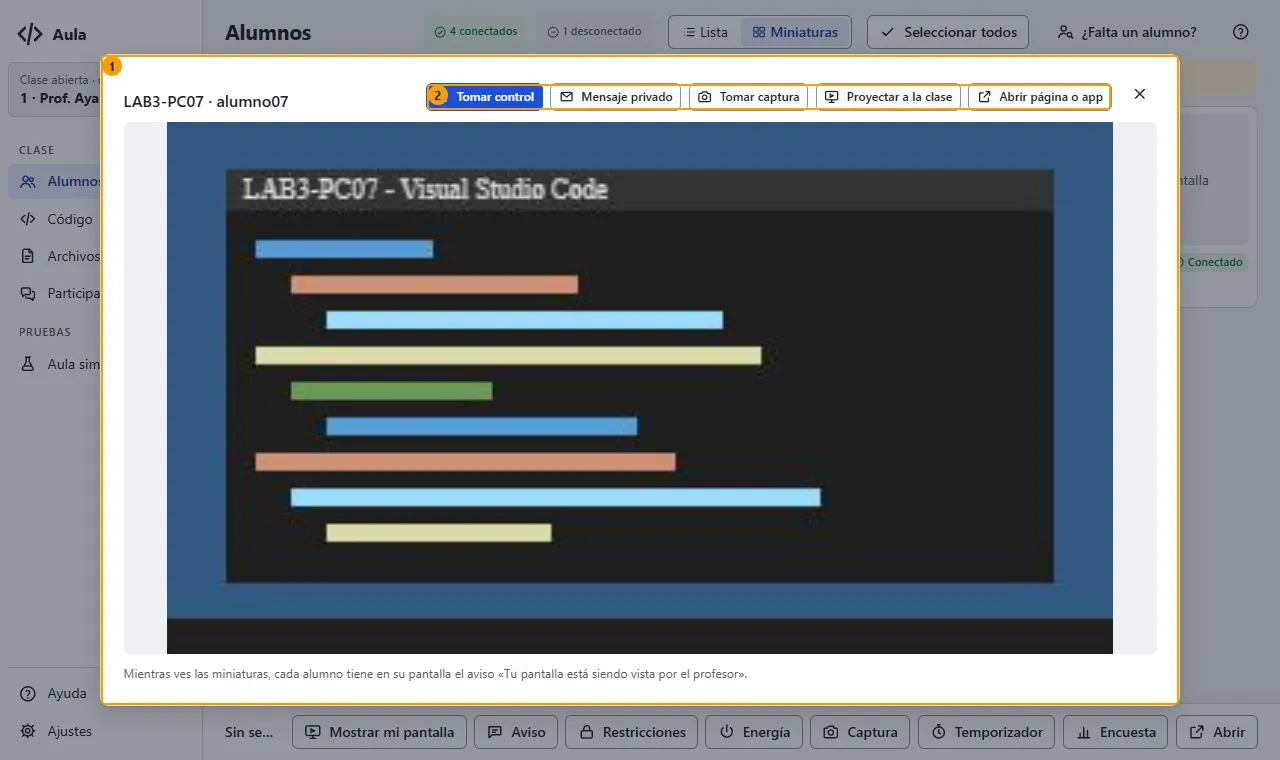
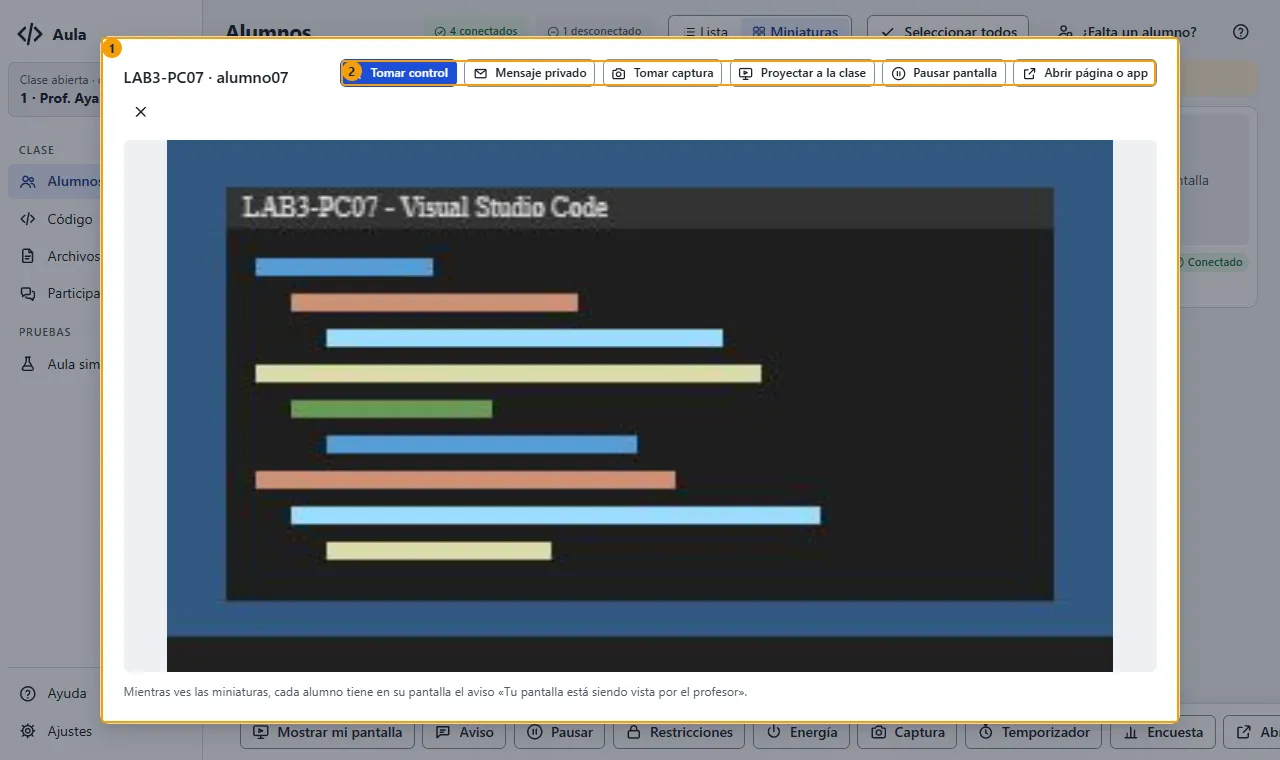
documentacion(ux): zona Panel Pausar pantallas, mapa e historial de la entrega

Changed region(s): [[0.0625, 0.2118, 1.0, 0.9987], [0.0625, 0.0303, 0.9375, 0.1816]]

diff --git a/docs/ux/MAPA.md b/docs/ux/MAPA.md
@@ -20,7 +20,7 @@ archivo y sus imágenes los genera `node scripts/ux/mapa.mjs` (no se editan a ma
 | 4 | **Selector Lista | Miniaturas** | Cambia entre la tabla y las miniaturas de pantalla. |
 | 5 | **Lista de alumnos** | Tabla con un alumno por fila. |
 | 6 | **Fila del alumno** | Un alumno: casilla, equipo, estado, insignias y el botón de su ficha. |
-| 7 | **Barra de acciones** | Abajo: lo que se aplica a la selección (aviso, transmitir, restricciones, captura, temporizador, encuesta, energía…). |
+| 7 | **Barra de acciones** | Abajo: lo que se aplica a la selección (aviso, transmitir, pausar, restricciones, captura, temporizador, encuesta, energía…). |
 
 ### Consola · Alumnos (miniaturas)
 
@@ -30,7 +30,7 @@ archivo y sus imágenes los genera `node scripts/ux/mapa.mjs` (no se editan a ma
 |---|---|---|
 | 1 | **Miniaturas** | Cuadrícula con la pantalla de cada alumno. |
 | 2 | **Tarjeta del alumno** | La miniatura de un alumno con su nombre; un clic abre la Pantalla grande. |
-| 3 | **Barra de acciones** | Abajo: lo que se aplica a la selección (aviso, transmitir, restricciones, captura, temporizador, encuesta, energía…). |
+| 3 | **Barra de acciones** | Abajo: lo que se aplica a la selección (aviso, transmitir, pausar, restricciones, captura, temporizador, encuesta, energía…). |
 
 ### Consola · Ficha del alumno
 
@@ -48,7 +48,7 @@ archivo y sus imágenes los genera `node scripts/ux/mapa.mjs` (no se editan a ma
 | # | Zona | Qué es |
 |---|---|---|
 | 1 | **Pantalla grande** | La pantalla de un alumno en grande; también la vista del control remoto y la de la proyección de un alumno. |
-| 2 | **Acciones sobre el alumno** | Tomar control, Mensaje privado, Tomar captura, Proyectar a la clase y Abrir página o app (ACCIONES_ALUMNO en main.js). |
+| 2 | **Acciones sobre el alumno** | Tomar control, Mensaje privado, Tomar captura, Proyectar a la clase, Pausar pantalla y Abrir página o app (ACCIONES_ALUMNO en main.js). |
 
 ### Consola · Franja global y un panel de la barra
 
@@ -56,9 +56,19 @@ archivo y sus imágenes los genera `node scripts/ux/mapa.mjs` (no se editan a ma
 
 | # | Zona | Qué es |
 |---|---|---|
-| 1 | **Franja global** | Lo que sigue activo durante la clase (transmitir, proyectar a un alumno, control, energía, temporizador, encuesta abierta, aula simulada), con su botón para detenerlo. |
+| 1 | **Franja global** | Lo que sigue activo durante la clase (transmitir, proyectar a un alumno, control, pantallas en pausa, energía, temporizador, encuesta abierta, aula simulada), con su botón para detenerlo. |
 | 2 | **Panel Aviso** | Mandar un aviso a la selección. |
-| 3 | **Barra de acciones** | Abajo: lo que se aplica a la selección (aviso, transmitir, restricciones, captura, temporizador, encuesta, energía…). |
+| 3 | **Barra de acciones** | Abajo: lo que se aplica a la selección (aviso, transmitir, pausar, restricciones, captura, temporizador, encuesta, energía…). |
+
+### Consola · Pausar pantallas
+
+![Consola · Pausar pantallas](mapa/consola-pausa.webp)
+
+| # | Zona | Qué es |
+|---|---|---|
+| 1 | **Franja global** | Lo que sigue activo durante la clase (transmitir, proyectar a un alumno, control, pantallas en pausa, energía, temporizador, encuesta abierta, aula simulada), con su botón para detenerlo. |
+| 2 | **Panel Pausar pantallas** | Pausar las pantallas de la selección o de todos, con un mensaje opcional, o reanudarlas (Ctrl+Mayús+P). |
+| 3 | **Barra de acciones** | Abajo: lo que se aplica a la selección (aviso, transmitir, pausar, restricciones, captura, temporizador, encuesta, energía…). |
 
 ### Consola · Abrir página o app
 
@@ -67,7 +77,7 @@ archivo y sus imágenes los genera `node scripts/ux/mapa.mjs` (no se editan a ma
 | # | Zona | Qué es |
 |---|---|---|
 | 1 | **Panel Abrir página o app** | Abrir una página en el navegador o una app permitida en los equipos de la selección, y las últimas que abriste. |
-| 2 | **Barra de acciones** | Abajo: lo que se aplica a la selección (aviso, transmitir, restricciones, captura, temporizador, encuesta, energía…). |
+| 2 | **Barra de acciones** | Abajo: lo que se aplica a la selección (aviso, transmitir, pausar, restricciones, captura, temporizador, encuesta, energía…). |
 
 ### Consola · Ajustes › Apps permitidas
 
@@ -131,7 +141,7 @@ archivo y sus imágenes los genera `node scripts/ux/mapa.mjs` (no se editan a ma
 | # | Zona | Qué es |
 |---|---|---|
 | 1 | **Panel Encuesta** | La pregunta, el tipo de respuesta, las opciones y «Ver quién respondió qué»; Lanzar a todos o a la selección. |
-| 2 | **Barra de acciones** | Abajo: lo que se aplica a la selección (aviso, transmitir, restricciones, captura, temporizador, encuesta, energía…). |
+| 2 | **Barra de acciones** | Abajo: lo que se aplica a la selección (aviso, transmitir, pausar, restricciones, captura, temporizador, encuesta, energía…). |
 
 ### Consola · Participación › Encuestas
 
@@ -139,7 +149,7 @@ archivo y sus imágenes los genera `node scripts/ux/mapa.mjs` (no se editan a ma
 
 | # | Zona | Qué es |
 |---|---|---|
-| 1 | **Franja global** | Lo que sigue activo durante la clase (transmitir, proyectar a un alumno, control, energía, temporizador, encuesta abierta, aula simulada), con su botón para detenerlo. |
+| 1 | **Franja global** | Lo que sigue activo durante la clase (transmitir, proyectar a un alumno, control, pantallas en pausa, energía, temporizador, encuesta abierta, aula simulada), con su botón para detenerlo. |
 | 2 | **Sección Encuestas** | La encuesta abierta con sus barras en vivo y Cerrar, y las anteriores con Compartir resultados. |
 
 
@@ -153,7 +163,7 @@ archivo y sus imágenes los genera `node scripts/ux/mapa.mjs` (no se editan a ma
 |---|---|---|
 | 1 | **Tira de identidad** | Arriba: a qué clase está conectado, el temporizador y los botones del alumno. |
 | 2 | **Botones de la tira** | Levantar la mano, Mensaje al profesor, Qué puede hacer Aula en este equipo y Modo compacto. |
-| 3 | **Bandas de transparencia** | Lo que el profesor hace con el equipo (pantalla vista, control, tu pantalla mostrada a la clase, restricciones, energía); no se cierran. |
+| 3 | **Bandas de transparencia** | Lo que el profesor hace con el equipo (energía, control, pantalla en pausa, pantalla vista, tu pantalla mostrada a la clase, restricciones); no se cierran. |
 | 4 | **Estado vacío** | Lo que se ve cuando no hay código ni archivos. |
 
 ### Alumno · Código recibido
@@ -226,7 +236,7 @@ También las que no salen en una imagen (diálogos y paneles). El `id` es el que
 |---|---|---|
 | `menu` | Menú | Columna izquierda: la clase abierta, las vistas y Ayuda y Ajustes. |
 | `menu-clase` | Menú › Selector de clase | Canal y nombre de la clase abierta; abre «Cambiar de canal». |
-| `franja` | Franja global | Lo que sigue activo durante la clase (transmitir, proyectar a un alumno, control, energía, temporizador, encuesta abierta, aula simulada), con su botón para detenerlo. |
+| `franja` | Franja global | Lo que sigue activo durante la clase (transmitir, proyectar a un alumno, control, pantallas en pausa, energía, temporizador, encuesta abierta, aula simulada), con su botón para detenerlo. |
 | `cabecera` | Cabecera de la vista | Título de la vista, su resumen y el «?» de ayuda contextual. |
 | `avisos` | Avisos (toasts) | Mensajes breves abajo a la derecha tras una acción. |
 | `alumnos` | Vista Alumnos | Los alumnos del canal, en lista o miniaturas. |
@@ -235,15 +245,17 @@ También las que no salen en una imagen (diálogos y paneles). El `id` es el que
 | `fila-alumno` | Vista Alumnos › Lista de alumnos › Fila del alumno | Un alumno: casilla, equipo, estado, insignias y el botón de su ficha. |
 | `alumnos-miniaturas` | Vista Alumnos › Miniaturas | Cuadrícula con la pantalla de cada alumno. |
 | `tarjeta-alumno` | Vista Alumnos › Miniaturas › Tarjeta del alumno | La miniatura de un alumno con su nombre; un clic abre la Pantalla grande. |
-| `barra-acciones` | Vista Alumnos › Barra de acciones | Abajo: lo que se aplica a la selección (aviso, transmitir, restricciones, captura, temporizador, encuesta, energía…). |
+| `barra-acciones` | Vista Alumnos › Barra de acciones | Abajo: lo que se aplica a la selección (aviso, transmitir, pausar, restricciones, captura, temporizador, encuesta, energía…). |
 | `ficha` | Ficha del alumno | Panel derecho con los datos de un alumno y qué puede hacer su equipo; su fila queda marcada. Las acciones están en la Pantalla grande. |
 | `ficha-puede` | Ficha del alumno › Qué puede hacer su equipo | Lista de capacidades del equipo del alumno. |
 | `pantalla-grande` | Pantalla grande | La pantalla de un alumno en grande; también la vista del control remoto y la de la proyección de un alumno. |
-| `pg-acciones` | Pantalla grande › Acciones sobre el alumno | Tomar control, Mensaje privado, Tomar captura, Proyectar a la clase y Abrir página o app (ACCIONES_ALUMNO en main.js). |
+| `pg-acciones` | Pantalla grande › Acciones sobre el alumno | Tomar control, Mensaje privado, Tomar captura, Proyectar a la clase, Pausar pantalla y Abrir página o app (ACCIONES_ALUMNO en main.js). |
 | `dlg-privado` | Diálogo Mensaje privado | Escribir un mensaje solo para un alumno, con su tipo; se abre desde la Pantalla grande. |
 | `dlg-abrir` | Diálogo Abrir en un alumno | Abrir una página o una app permitida en el equipo de un alumno; se abre desde la Pantalla grande. |
 | `dlg-plantilla` | Diálogo Nueva plantilla | Crear una plantilla con su nombre y sus archivos; se abre desde Plantillas (nota de interfaz 17). |
+| `dlg-pausa` | Diálogo Cambiar mensaje de la pausa | Cambiar el mensaje de las pantallas en pausa; se abre desde la Franja global (prompt 10.21). |
 | `panel-aviso` | Panel Aviso | Mandar un aviso a la selección. |
+| `panel-pausa` | Panel Pausar pantallas | Pausar las pantallas de la selección o de todos, con un mensaje opcional, o reanudarlas (Ctrl+Mayús+P). |
 | `panel-pantalla` | Panel Transmitir | Transmitir tu pantalla a la clase. |
 | `panel-restricciones` | Panel Restricciones | Bloquear aplicaciones y filtrar sitios. |
 | `panel-captura` | Panel Captura | Tomar capturas de varios alumnos. |
@@ -289,7 +301,7 @@ También las que no salen en una imagen (diálogos y paneles). El `id` es el que
 | `tira` | Tira de identidad | Arriba: a qué clase está conectado, el temporizador y los botones del alumno. |
 | `tira-botones` | Tira de identidad › Botones de la tira | Levantar la mano, Mensaje al profesor, Qué puede hacer Aula en este equipo y Modo compacto. |
 | `tira-temporizador` | Tira de identidad › Insignia del temporizador | Cuánto falta del ejercicio. |
-| `bandas` | Bandas de transparencia | Lo que el profesor hace con el equipo (pantalla vista, control, tu pantalla mostrada a la clase, restricciones, energía); no se cierran. |
+| `bandas` | Bandas de transparencia | Lo que el profesor hace con el equipo (energía, control, pantalla en pausa, pantalla vista, tu pantalla mostrada a la clase, restricciones); no se cierran. |
 | `banda-mostrando` | Bandas de transparencia › Banda «Tu pantalla se está mostrando» | Mientras sus compañeros ven su pantalla; sin botones: la termina el profesor. |
 | `mano-estado` | Estado de la mano | «Tu mano está levantada» y el motivo. |
 | `redactar` | Diálogo Mensaje al profesor | El diálogo para escribirle al profesor. |

diff --git a/docs/ux/historial/pausar-pantallas.md b/docs/ux/historial/pausar-pantallas.md
@@ -1,0 +1,59 @@
+# Pausar pantallas (10.21): ubicación y decisiones
+
+Estado: **implementado, sin commit** (12/11/2026). Prompt `docs/prompts/10.21-pantalla-en-blanco.md`,
+con `/funcionalidad-nueva 10.21`. Sin capturas versionadas: las del arnés son
+`scripts/ux/salida/166-172` (consola) y `scripts/ux/salida-alumno/92-94` (alumno), y salen en el CI.
+El mapa tiene «Consola · Pausar pantallas» (`docs/ux/mapa/consola-pausa.webp`).
+
+## Análisis
+
+La pantalla en blanco estaba documentada desde la etapa 09 (protocolo §5.9–5.11, reglas 9–10,
+D-013) y diseñada en el prototipo `apps/teacher/frontend/dev/prototipo/alumno-pausa.html`, pero
+retirada del código. Es una **acción sobre el equipo** (la tapa y toma los clics), así que en el
+alumno usa `raise` y lleva banda, y nunca llega a los alumnos simulados. En la consola tiene las
+tres formas que piden las reglas de ubicación de `CLAUDE.md`: se aplica a la selección (Barra de
+acciones), a un alumno (Pantalla grande) y sigue activa mientras dura (Franja global).
+
+Choques que había que resolver con lo que ya existía:
+
+- **Transmisión y proyección:** el caso típico es «pausar y mostrar algo». Si la pausa quedara
+  encima, la transmisión no se vería.
+- **Energía y control remoto:** su aviso debe verse siempre (reglas 26 y 36).
+- **Control remoto y proyección de un alumno en pausa:** el profesor vería (y mostraría a la clase)
+  la pausa, no la pantalla.
+- **El texto:** el protocolo y el prototipo decían cosas distintas.
+- **«Pide el foco cada medio segundo»** (D-013): pelea con la cuenta regresiva de energía y Windows
+  lo impide a medias.
+
+## Opciones de ubicación presentadas
+
+1. **Panel + Pantalla grande + franja** (recomendada): panel «Pausar pantallas» con mensaje
+   opcional, «Pausar pantalla» en Acciones sobre el alumno, Franja global con «Cambiar mensaje» y
+   «Reanudar todo». Igual que Energía y Temporizador.
+2. **Botón directo + franja:** pausa en un clic; el mensaje se agrega después desde la franja.
+3. **Dentro del panel Transmitir:** sin botón nuevo en la barra, pero mezcla dos funciones.
+
+## Decisiones (del usuario)
+
+- Ubicación: la opción 1. El mensaje se cambia en su propio diálogo, desde la franja.
+- Tomar el control o proyectar a un alumno en pausa **le quita la pausa primero**.
+- **La transmisión queda encima de la pausa** (también la de un compañero), y lo mismo la cuenta de
+  energía y el aviso del control remoto: la ventana de pausa cede el paso (`PauseOverlay.Yield`)
+  y queda justo debajo de la ventana de Aula. El alumno que se proyecta no se pausa.
+- Atajo **Ctrl+Mayús+P**: pausa a todos o, si ya hay pausa, reanuda a todos. Se toma en la fase de
+  captura para que el editor (Monaco) no abra su paleta de comandos.
+- La ventana de pausa pide el foco **solo al aparecer y al recibir un clic** (cambio a D-013).
+- Una ventana nativa **por monitor**, con su DPI, en los colores `c-vista-solido` de `tokens.css`
+  (los del prototipo), claro u oscuro según el sistema, con la hora al pie para que no parezca
+  un cuelgue.
+
+## Resultados
+
+- Arnés de la consola (166–172) y del alumno (92–94) sin errores de JS ni violaciones serias de
+  axe. Una violación inicial (`label-content-name-mismatch`): el tooltip del botón «Pausar» no
+  contenía su texto visible; ahora empieza con «Pausar pantallas…».
+- `pruebas-alumno.mjs`: la banda no se cierra ni se oculta con Esc, se va al reanudar sin quitar el
+  foco, saca la ventana del modo compacto y queda en el orden fijo
+  (`power, banda-control, banda-pausa, banda-vista, banda-mostrando, restrictions`).
+- Lo nativo (la ventana de pausa, dos monitores, DPI distintos, Alt+Tab, Alt+F4, el tema) queda en
+  los casos manuales A-42 a A-47 y en `docs/prueba-vms.md` §27.
